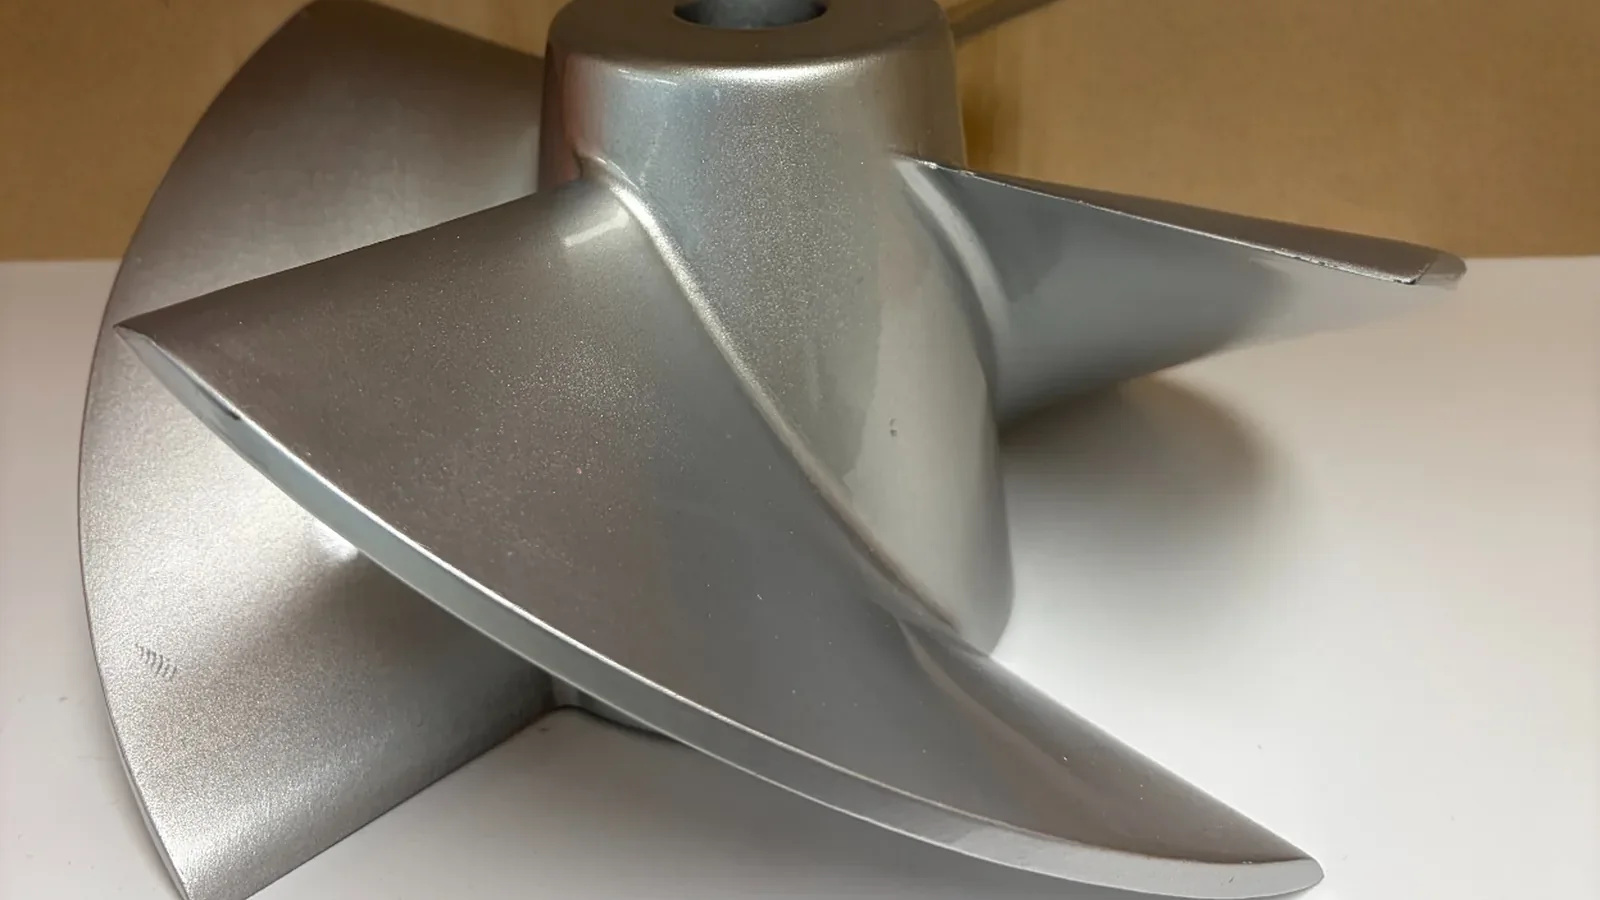
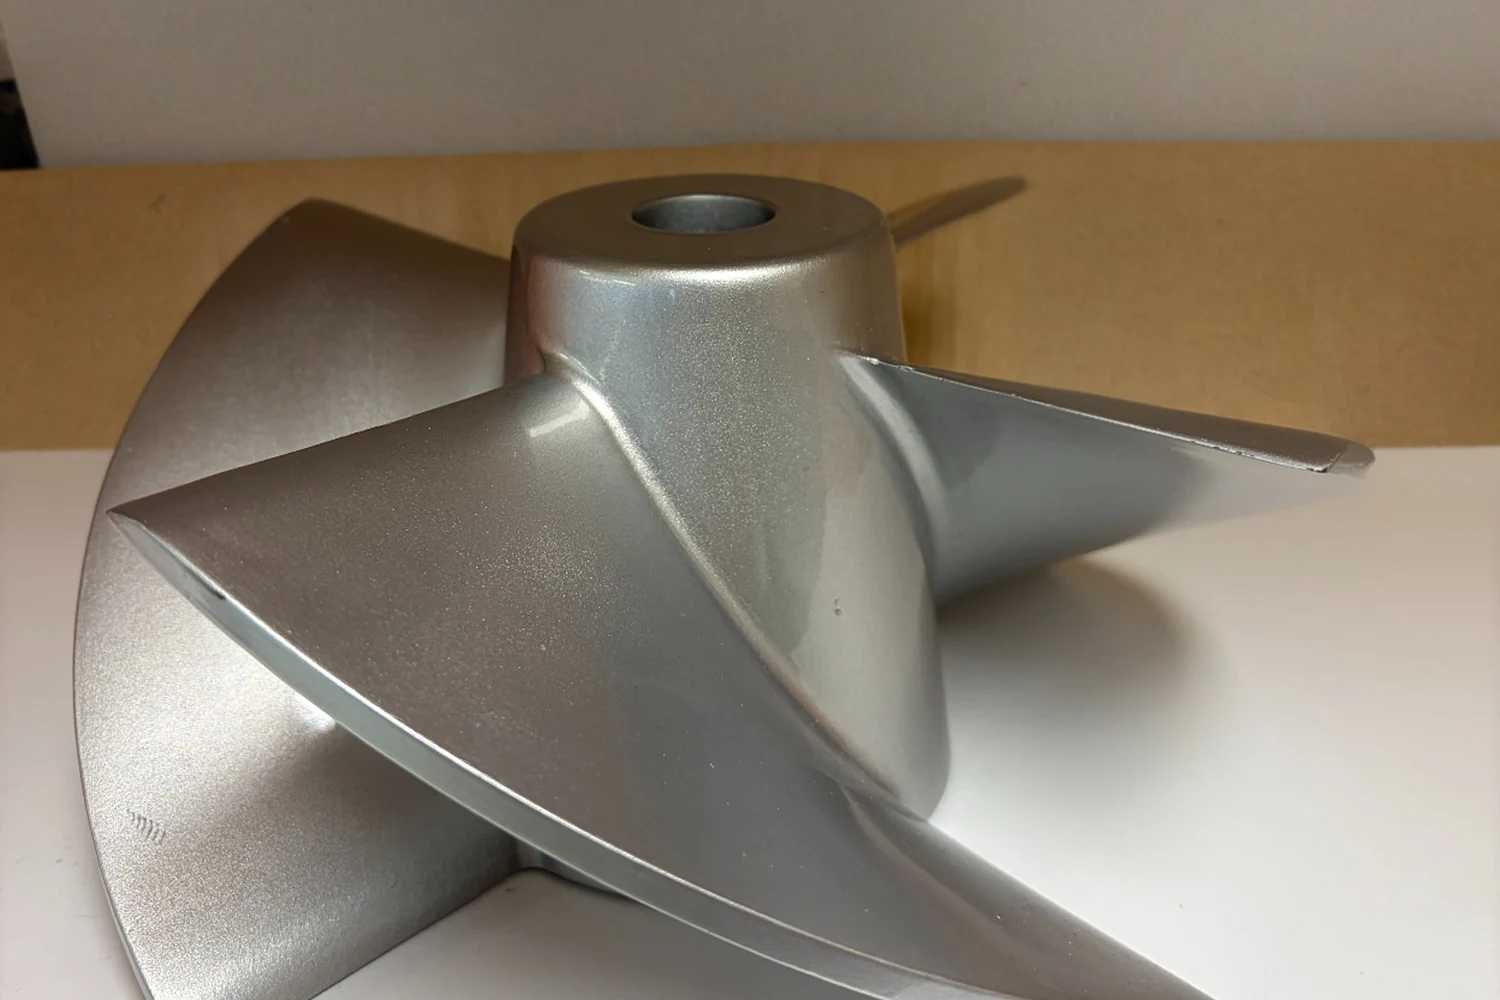
서비스 히어로 이미지 잘림 수정 - 원본 2250x3000에서 임펠러 전체가 보이는 3:2 크롭(1500x1000)으로 재생성, hero-panel-media에서 cover 클래스 제거하여 object-fit:contain으로 letterboxed 표시. 캐시버스트 v20260802v

diff --git a/service.html b/service.html
@@ -15,7 +15,7 @@
 <link rel="preconnect" href="https://fonts.gstatic.com" crossorigin>
 <link href="https://fonts.googleapis.com/css2?family=Inter:wght@400;500;600;700;800;900&display=swap" rel="stylesheet">
 <link href="https://cdn.jsdelivr.net/gh/orioncactus/pretendard@v1.3.9/dist/web/static/pretendard.min.css" rel="stylesheet">
-<link rel="stylesheet" href="/css/style.css?v=20260802u">
+<link rel="stylesheet" href="/css/style.css?v=20260802v">
 </head>
 <body>
 <header class="hd">
@@ -60,7 +60,7 @@
       </div>
     </div>
     <aside class="hero-panel" aria-label="전시회 모형 실사례">
-      <div class="hero-panel-media cover"><img src="/images/mf-svc-hero.webp" alt="전시회에 전시된 실사용 부품 · 모터 팬 임펠러"></div>
+      <div class="hero-panel-media"><img src="/images/mf-svc-hero.webp" alt="전시회에 전시된 실사용 부품 · 모터 팬 임펠러"></div>
       <div class="hero-panel-kicker">Exhibition Model · Real Case</div>
       <div class="hero-panel-title">전시회에 실제로 전시된 완성본</div>
       <div class="hero-facts">

diff --git a/_partials/main_service.html b/_partials/main_service.html
@@ -11,7 +11,7 @@
       </div>
     </div>
     <aside class="hero-panel" aria-label="전시회 모형 실사례">
-      <div class="hero-panel-media cover"><img src="/images/mf-svc-hero.webp" alt="전시회에 전시된 실사용 부품 · 모터 팬 임펠러"></div>
+      <div class="hero-panel-media"><img src="/images/mf-svc-hero.webp" alt="전시회에 전시된 실사용 부품 · 모터 팬 임펠러"></div>
       <div class="hero-panel-kicker">Exhibition Model · Real Case</div>
       <div class="hero-panel-title">전시회에 실제로 전시된 완성본</div>
       <div class="hero-facts">

diff --git a/404.html b/404.html
@@ -15,7 +15,7 @@
 <link rel="preconnect" href="https://fonts.gstatic.com" crossorigin>
 <link href="https://fonts.googleapis.com/css2?family=Inter:wght@400;500;600;700;800;900&display=swap" rel="stylesheet">
 <link href="https://cdn.jsdelivr.net/gh/orioncactus/pretendard@v1.3.9/dist/web/static/pretendard.min.css" rel="stylesheet">
-<link rel="stylesheet" href="/css/style.css?v=20260802u">
+<link rel="stylesheet" href="/css/style.css?v=20260802v">
 </head>
 <body>
 <header class="hd">

diff --git a/about.html b/about.html
@@ -15,7 +15,7 @@
 <link rel="preconnect" href="https://fonts.gstatic.com" crossorigin>
 <link href="https://fonts.googleapis.com/css2?family=Inter:wght@400;500;600;700;800;900&display=swap" rel="stylesheet">
 <link href="https://cdn.jsdelivr.net/gh/orioncactus/pretendard@v1.3.9/dist/web/static/pretendard.min.css" rel="stylesheet">
-<link rel="stylesheet" href="/css/style.css?v=20260802u">
+<link rel="stylesheet" href="/css/style.css?v=20260802v">
 </head>
 <body>
 <header class="hd">

diff --git a/difference.html b/difference.html
@@ -15,7 +15,7 @@
 <link rel="preconnect" href="https://fonts.gstatic.com" crossorigin>
 <link href="https://fonts.googleapis.com/css2?family=Inter:wght@400;500;600;700;800;900&display=swap" rel="stylesheet">
 <link href="https://cdn.jsdelivr.net/gh/orioncactus/pretendard@v1.3.9/dist/web/static/pretendard.min.css" rel="stylesheet">
-<link rel="stylesheet" href="/css/style.css?v=20260802u">
+<link rel="stylesheet" href="/css/style.css?v=20260802v">
 </head>
 <body>
 <header class="hd">

diff --git a/faq.html b/faq.html
@@ -15,7 +15,7 @@
 <link rel="preconnect" href="https://fonts.gstatic.com" crossorigin>
 <link href="https://fonts.googleapis.com/css2?family=Inter:wght@400;500;600;700;800;900&display=swap" rel="stylesheet">
 <link href="https://cdn.jsdelivr.net/gh/orioncactus/pretendard@v1.3.9/dist/web/static/pretendard.min.css" rel="stylesheet">
-<link rel="stylesheet" href="/css/style.css?v=20260802u">
+<link rel="stylesheet" href="/css/style.css?v=20260802v">
 </head>
 <body>
 <header class="hd">

diff --git a/index.html b/index.html
@@ -15,7 +15,7 @@
 <link rel="preconnect" href="https://fonts.gstatic.com" crossorigin>
 <link href="https://fonts.googleapis.com/css2?family=Inter:wght@400;500;600;700;800;900&display=swap" rel="stylesheet">
 <link href="https://cdn.jsdelivr.net/gh/orioncactus/pretendard@v1.3.9/dist/web/static/pretendard.min.css" rel="stylesheet">
-<link rel="stylesheet" href="/css/style.css?v=20260802u">
+<link rel="stylesheet" href="/css/style.css?v=20260802v">
 </head>
 <body>
 <header class="hd">

diff --git a/industries.html b/industries.html
@@ -15,7 +15,7 @@
 <link rel="preconnect" href="https://fonts.gstatic.com" crossorigin>
 <link href="https://fonts.googleapis.com/css2?family=Inter:wght@400;500;600;700;800;900&display=swap" rel="stylesheet">
 <link href="https://cdn.jsdelivr.net/gh/orioncactus/pretendard@v1.3.9/dist/web/static/pretendard.min.css" rel="stylesheet">
-<link rel="stylesheet" href="/css/style.css?v=20260802u">
+<link rel="stylesheet" href="/css/style.css?v=20260802v">
 </head>
 <body>
 <header class="hd">

diff --git a/inquiry.html b/inquiry.html
@@ -15,7 +15,7 @@
 <link rel="preconnect" href="https://fonts.gstatic.com" crossorigin>
 <link href="https://fonts.googleapis.com/css2?family=Inter:wght@400;500;600;700;800;900&display=swap" rel="stylesheet">
 <link href="https://cdn.jsdelivr.net/gh/orioncactus/pretendard@v1.3.9/dist/web/static/pretendard.min.css" rel="stylesheet">
-<link rel="stylesheet" href="/css/style.css?v=20260802u">
+<link rel="stylesheet" href="/css/style.css?v=20260802v">
 </head>
 <body>
 <header class="hd">

diff --git a/materials.html b/materials.html
@@ -15,7 +15,7 @@
 <link rel="preconnect" href="https://fonts.gstatic.com" crossorigin>
 <link href="https://fonts.googleapis.com/css2?family=Inter:wght@400;500;600;700;800;900&display=swap" rel="stylesheet">
 <link href="https://cdn.jsdelivr.net/gh/orioncactus/pretendard@v1.3.9/dist/web/static/pretendard.min.css" rel="stylesheet">
-<link rel="stylesheet" href="/css/style.css?v=20260802u">
+<link rel="stylesheet" href="/css/style.css?v=20260802v">
 </head>
 <body>
 <header class="hd">

diff --git a/materials/carbon-fiber-fr.html b/materials/carbon-fiber-fr.html
@@ -15,7 +15,7 @@
 <link rel="preconnect" href="https://fonts.gstatic.com" crossorigin>
 <link href="https://fonts.googleapis.com/css2?family=Inter:wght@400;500;600;700;800;900&display=swap" rel="stylesheet">
 <link href="https://cdn.jsdelivr.net/gh/orioncactus/pretendard@v1.3.9/dist/web/static/pretendard.min.css" rel="stylesheet">
-<link rel="stylesheet" href="/css/style.css?v=20260802u">
+<link rel="stylesheet" href="/css/style.css?v=20260802v">
 </head>
 <body>
 <header class="hd">

diff --git a/materials/carbon-fiber.html b/materials/carbon-fiber.html
@@ -15,7 +15,7 @@
 <link rel="preconnect" href="https://fonts.gstatic.com" crossorigin>
 <link href="https://fonts.googleapis.com/css2?family=Inter:wght@400;500;600;700;800;900&display=swap" rel="stylesheet">
 <link href="https://cdn.jsdelivr.net/gh/orioncactus/pretendard@v1.3.9/dist/web/static/pretendard.min.css" rel="stylesheet">
-<link rel="stylesheet" href="/css/style.css?v=20260802u">
+<link rel="stylesheet" href="/css/style.css?v=20260802v">
 </head>
 <body>
 <header class="hd">
